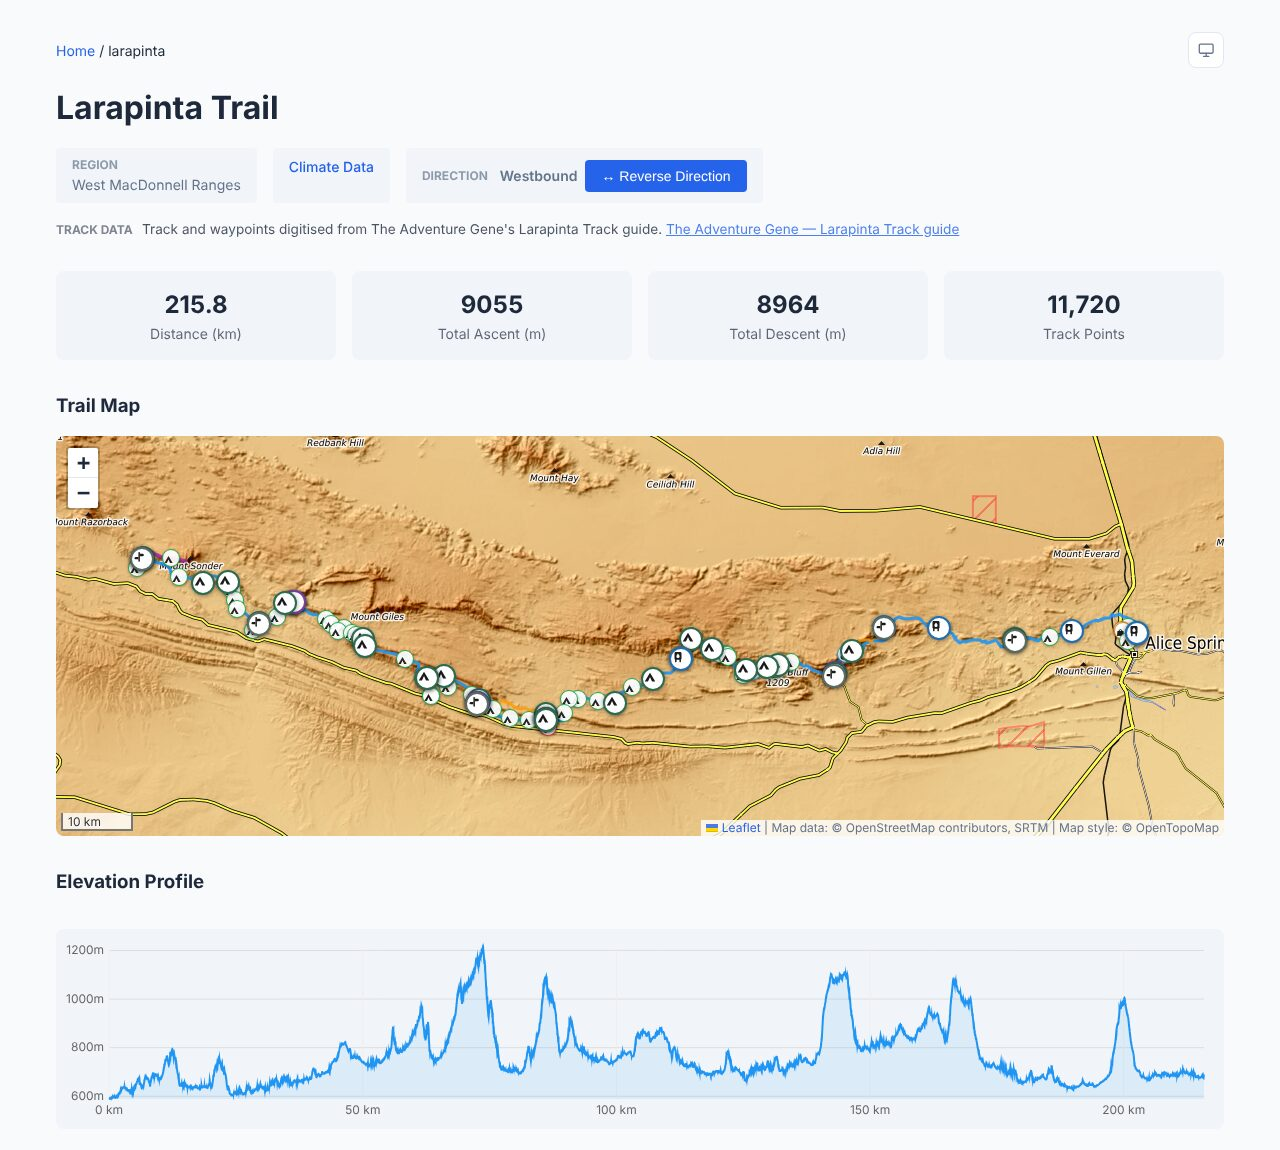
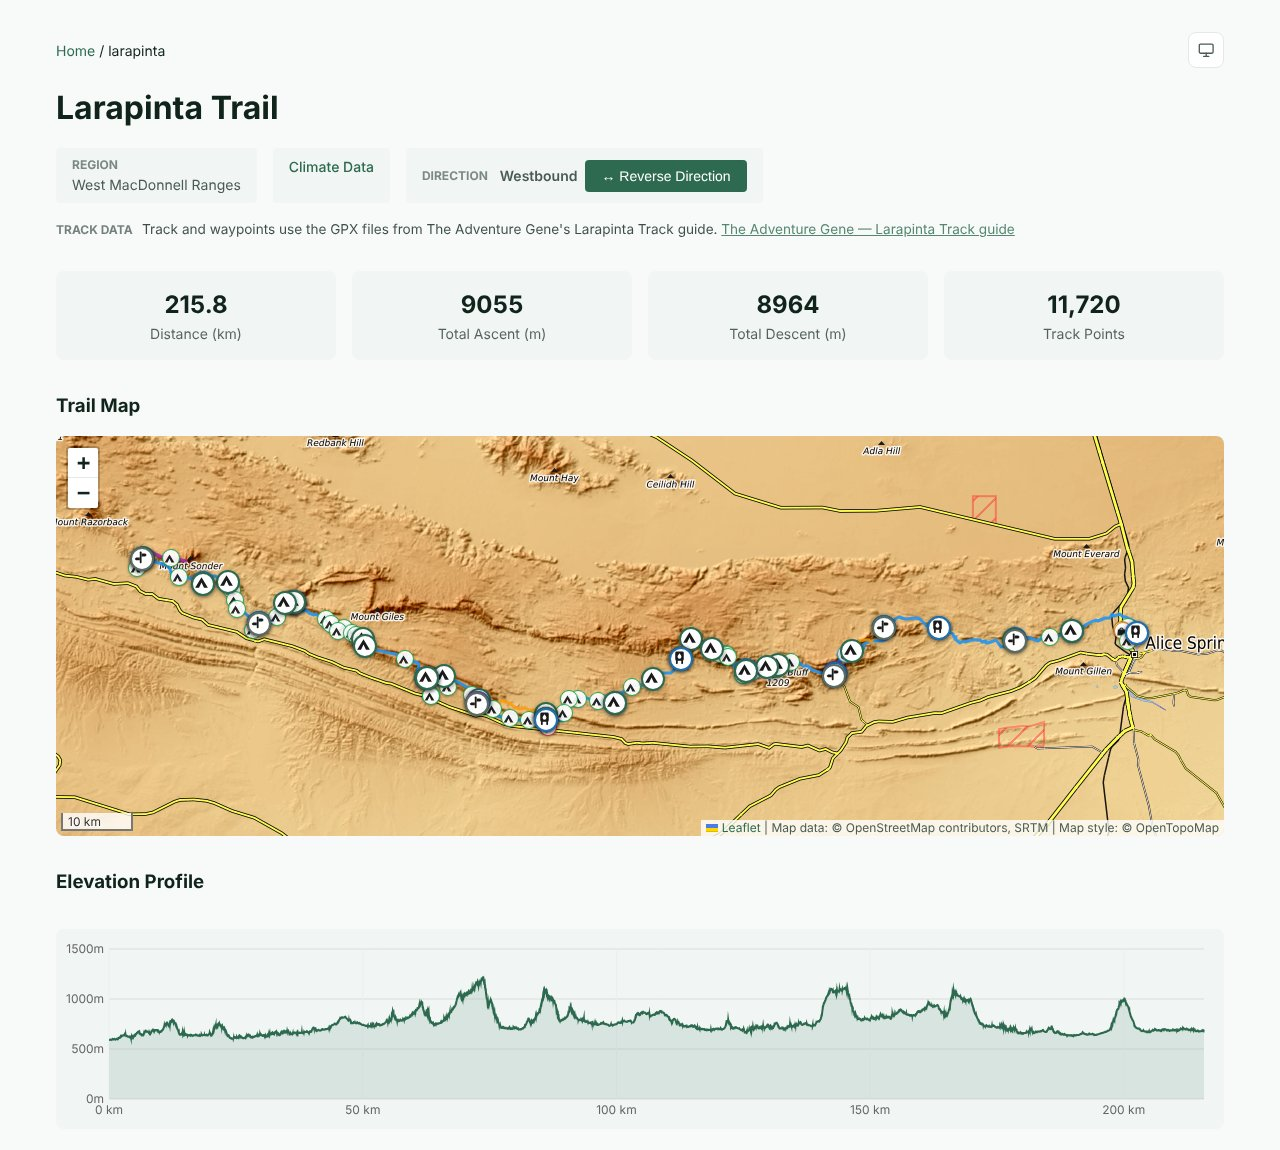
Web: size marker glyphs to fill their badge
The waypoint and POI glyphs drew at 14px and 11px inside 24px and 18px
badges. The glyph art only fills ~76/96 of its box, so the visible ink
was about 10px in a 24px circle and read as a speck on the map.

Size each glyph to the largest box whose ink still clears the white
disc inside the ring, the rule the phone's MARKER_ICON_SIZE already
follows. Measured over all 23 glyphs, the furthest ink (town, summit)
reaches 0.533 of the box from its centre, which gives:

- trail-page waypoint: 14px -> 17px (Ø19 disc)
- plan-page waypoint:  13px -> 15px (Ø17 disc; touches the 3px stop ring)
- POI:                 11px -> 13px (Ø15 disc)

Retake the README's trail-page screenshot to match.

Claude-Session: https://claude.ai/code/session_01RtS2cpG5Z1rrYFnsujoqHA

diff --git a/src/web/styles.css b/src/web/styles.css
@@ -1558,9 +1558,12 @@ input::placeholder {
   box-shadow: 0 1px 4px rgba(0, 0, 0, 0.4);
 }
 
+/* The glyph's ink reaches ~0.53 of its box from the centre (town, summit),
+ * so 17px is the largest box whose ink clears the Ø19 white disc inside the
+ * ring — the same rule the phone's MARKER_ICON_SIZE follows. */
 .waypoint-marker .map-glyph {
-  width: 14px;
-  height: 14px;
+  width: 17px;
+  height: 17px;
   color: #1a1a1a;
 }
 
@@ -1659,9 +1662,10 @@ a.poi-source-badge:hover {
   opacity: 0.92;
 }
 
+/* Largest that clears the Ø15 disc, as for .waypoint-marker above. */
 .poi-marker .map-glyph {
-  width: 11px;
-  height: 11px;
+  width: 13px;
+  height: 13px;
   color: inherit;
 }
 

diff --git a/src/web/trails/plan-page.css b/src/web/trails/plan-page.css
@@ -775,7 +775,8 @@ html, body { height: 100%; margin: 0; overflow: hidden; }
   width: 22px;
   height: 22px;
 }
-.waypoint-marker .map-glyph { width: 13px; height: 13px; }
+/* Largest that clears the Ø17 disc (see .waypoint-marker in styles.css). */
+.waypoint-marker .map-glyph { width: 15px; height: 15px; }
 .waypoint-marker.is-stop { border-color: var(--select); border-width: 3px; }
 /* After .is-stop on purpose: a planned stop that is also a camp stop shows the
  * plan's ring, which is the rarer and more consequential of the two. */

diff --git a/src/lib/map-glyphs.ts b/src/lib/map-glyphs.ts
@@ -9,7 +9,7 @@
  * Each value is the body of a 96x96 SVG, drawn inside a ~76px centred box and
  * inked with `currentColor` (the PNG build substitutes its fixed ink; the web
  * sets `color`). Keep the geometry simple — paths, rects and circles, solid
- * fills or strokes of at least 11 — because the glyph is seen at 11-13 px:
+ * fills or strokes of at least 11 — because the glyph is seen at 10-14 px:
  * finer strokes read lighter than the solid glyphs beside them, and detail
  * smaller than that disappears.
  *
